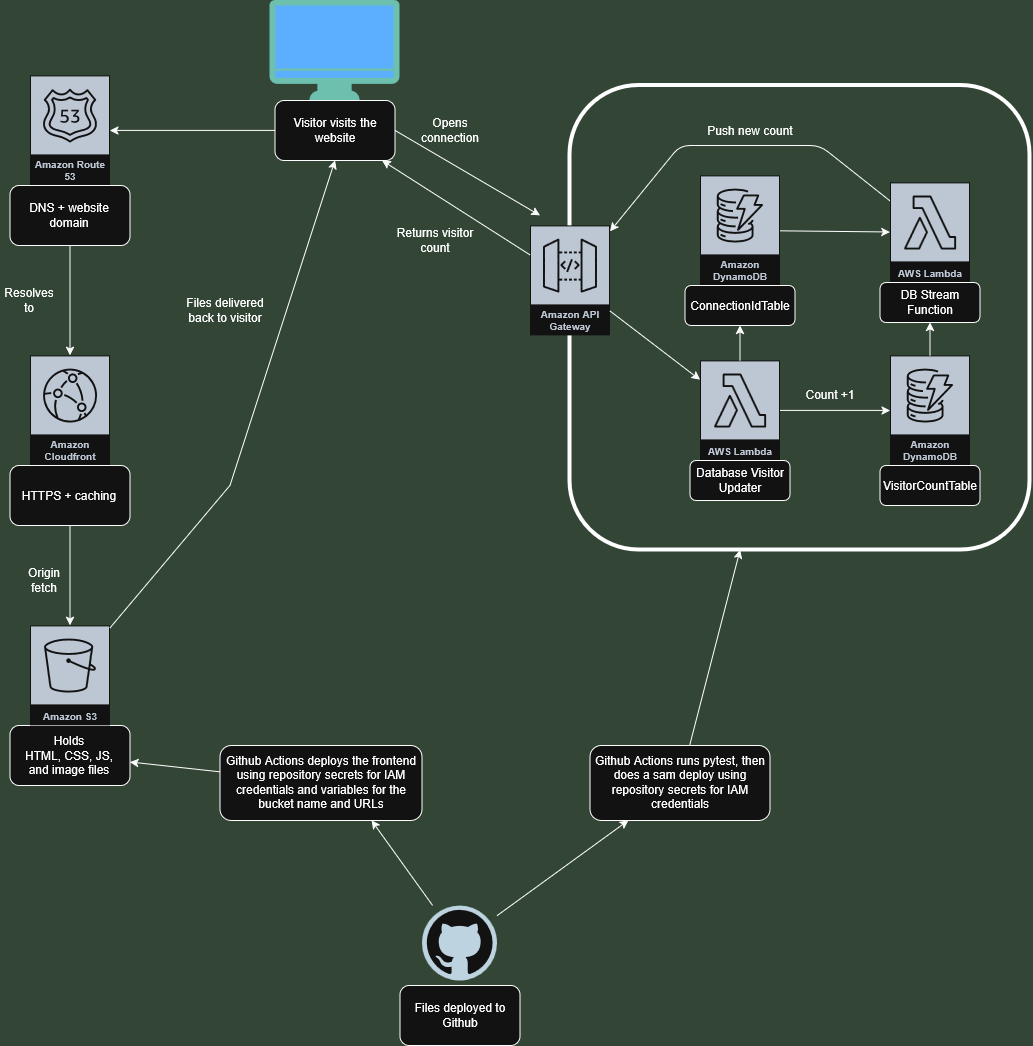
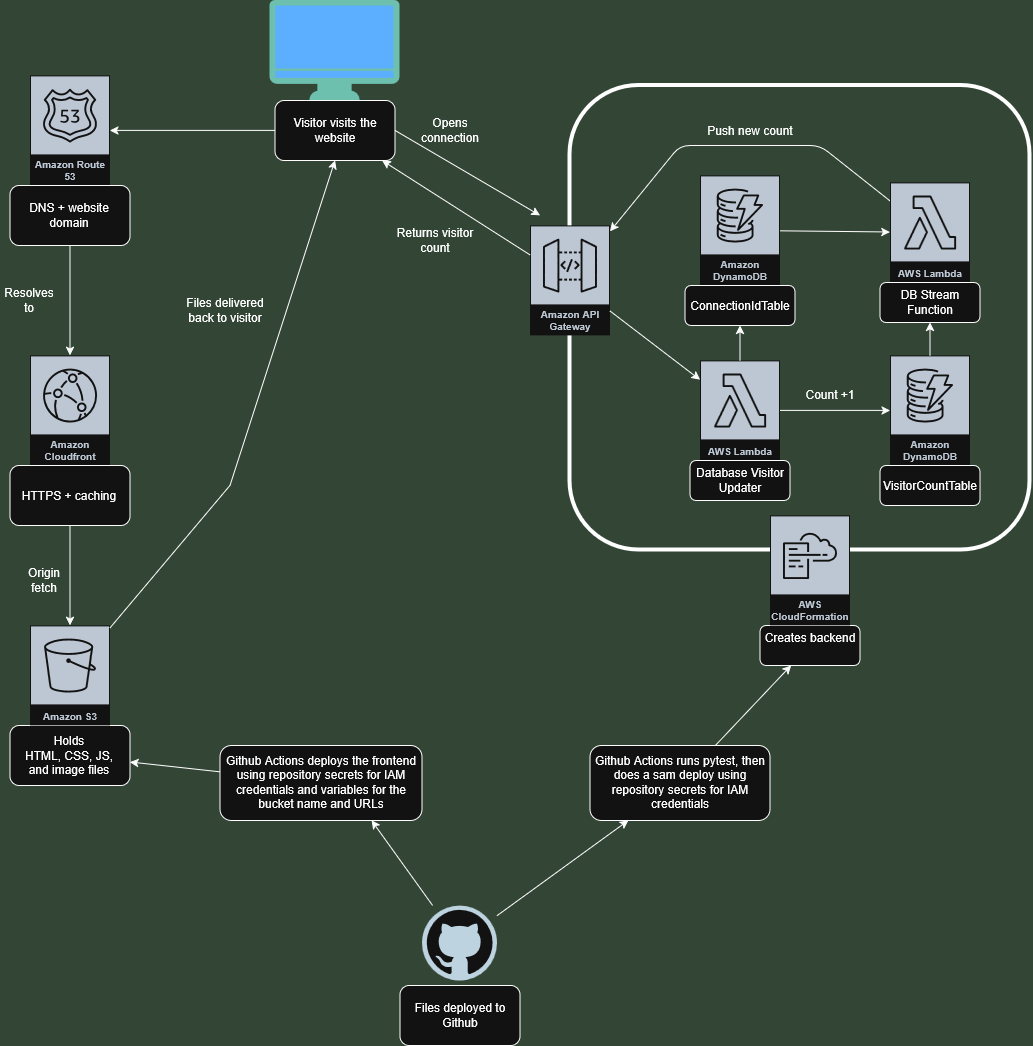
Adding back finalized flowchart.

Changed region(s): [[0.7125, 0.4895, 0.8364, 0.6424]]

diff --git a/frontend/index.html b/frontend/index.html
@@ -491,12 +491,13 @@
       <p class="hero-about">
         The static site (left) and the visitor counter (right) are independent
         of each other — the counter could be swapped out entirely without
-        touching the resume content itself. Solid arrows are writes/invokes;
-        dashed arrows are reads or the live push back to the browser.
+        touching the resume content itself. GitHub Actions deploys the two
+        halves differently: the frontend syncs straight to S3, while the
+        backend deploys through AWS CloudFormation, which is what actually
+        provisions the Lambda functions, DynamoDB tables, and API Gateway
+        from the SAM template.
       </p>
-      <div class="diagram-frame">
-        <img class="diagram-img" src="images/architecture-diagram.svg" alt="Architecture diagram: Route 53 and CloudFront deliver the static site from S3; a WebSocket API Gateway fronts a Lambda function that writes to a DynamoDB visitor count table and a connections table; a DynamoDB Stream on the count table triggers a second Lambda that pushes live updates back to every open connection; GitHub Actions deploys both the frontend and backend.">
-      </div>
+      <img class="diagram-img" src="images/architecture-diagram.png" alt="Architecture diagram: Route 53 and CloudFront deliver the static site from S3; a WebSocket API Gateway fronts a Lambda function that writes to a DynamoDB visitor count table and a connections table; a DynamoDB Stream on the count table triggers a second Lambda that pushes live updates back to every open connection; GitHub Actions deploys the frontend directly to S3, and deploys the backend through AWS CloudFormation.">
     </div>
 
   </div> <!-- /#breakdown-view -->

diff --git a/frontend/styles.css b/frontend/styles.css
@@ -1018,18 +1018,13 @@ transition line on .cert-card above)
    style it's based on, which was drawn against white. Framing it in
    a light card here makes that read as a deliberate choice instead
    of a stray white rectangle sitting on the page's dark background. */
-.diagram-frame {
-  margin-top: 1.5rem;
-  background-color: #ffffff;
-  border-radius: 8px;
-  padding: 1rem;
-  border: 1px solid var(--border-color);
-}
-
 .diagram-img {
   display: block;
   width: 100%;
   height: auto;
+  margin-top: 1.5rem;
+  border: 1px solid var(--border-color);
+  border-radius: 8px;
 }
 
 /* ---------------- breakdown view: highlighted visitor count ---------------- */

diff --git a/README.md b/README.md
@@ -10,6 +10,10 @@ This isn't just a resume hosted online — it's a small full-stack AWS applicati
 
 Click the **Technical Breakdown** button in the site's own nav bar for a plain-language walkthrough of every service used and why — no need to leave the page.
 
+## Architecture
+
+![Architecture diagram: Route 53 and CloudFront deliver the static site from S3; a WebSocket API Gateway fronts a Lambda function that writes to a DynamoDB visitor count table and a connections table; a DynamoDB Stream on the count table triggers a second Lambda that pushes live updates back to every open connection; GitHub Actions deploys the frontend directly to S3, and deploys the backend through AWS CloudFormation.](docs/architecture-diagram.png)
+
 ## Highlights
 
 - Frontend deployed to **S3 + CloudFront**, with a custom domain through **Route 53** and a free TLS certificate from **ACM**.
